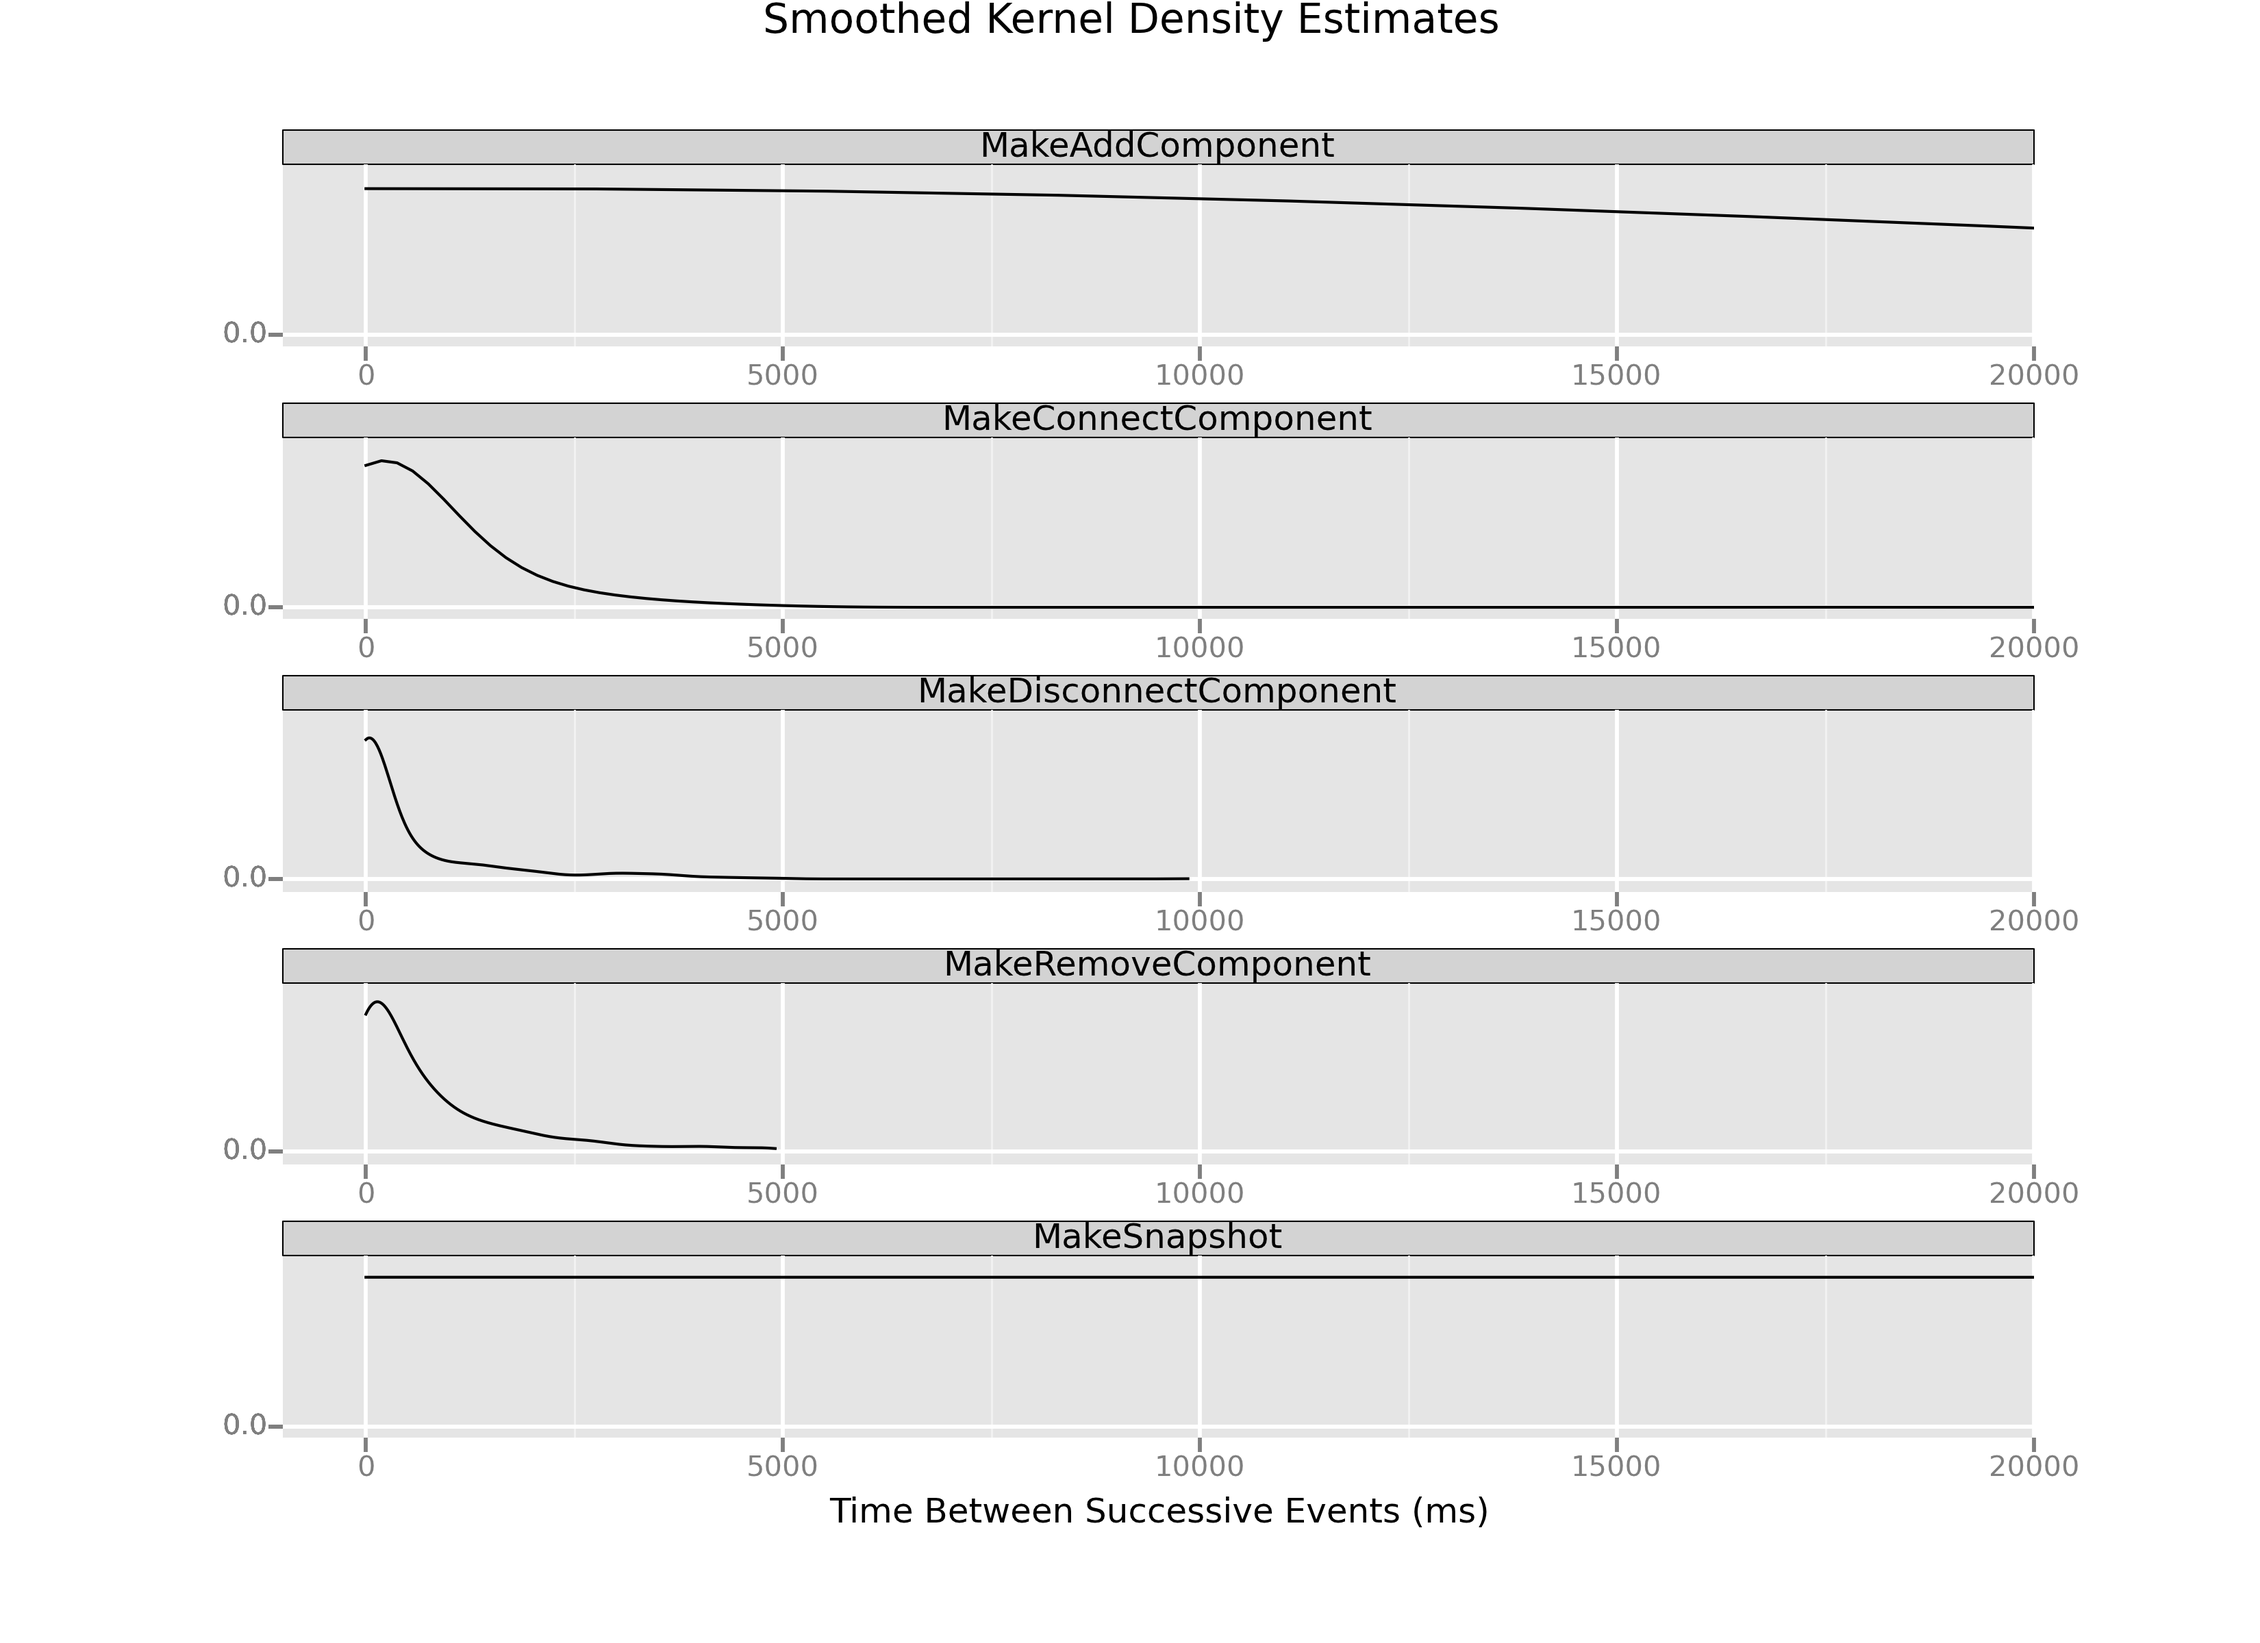
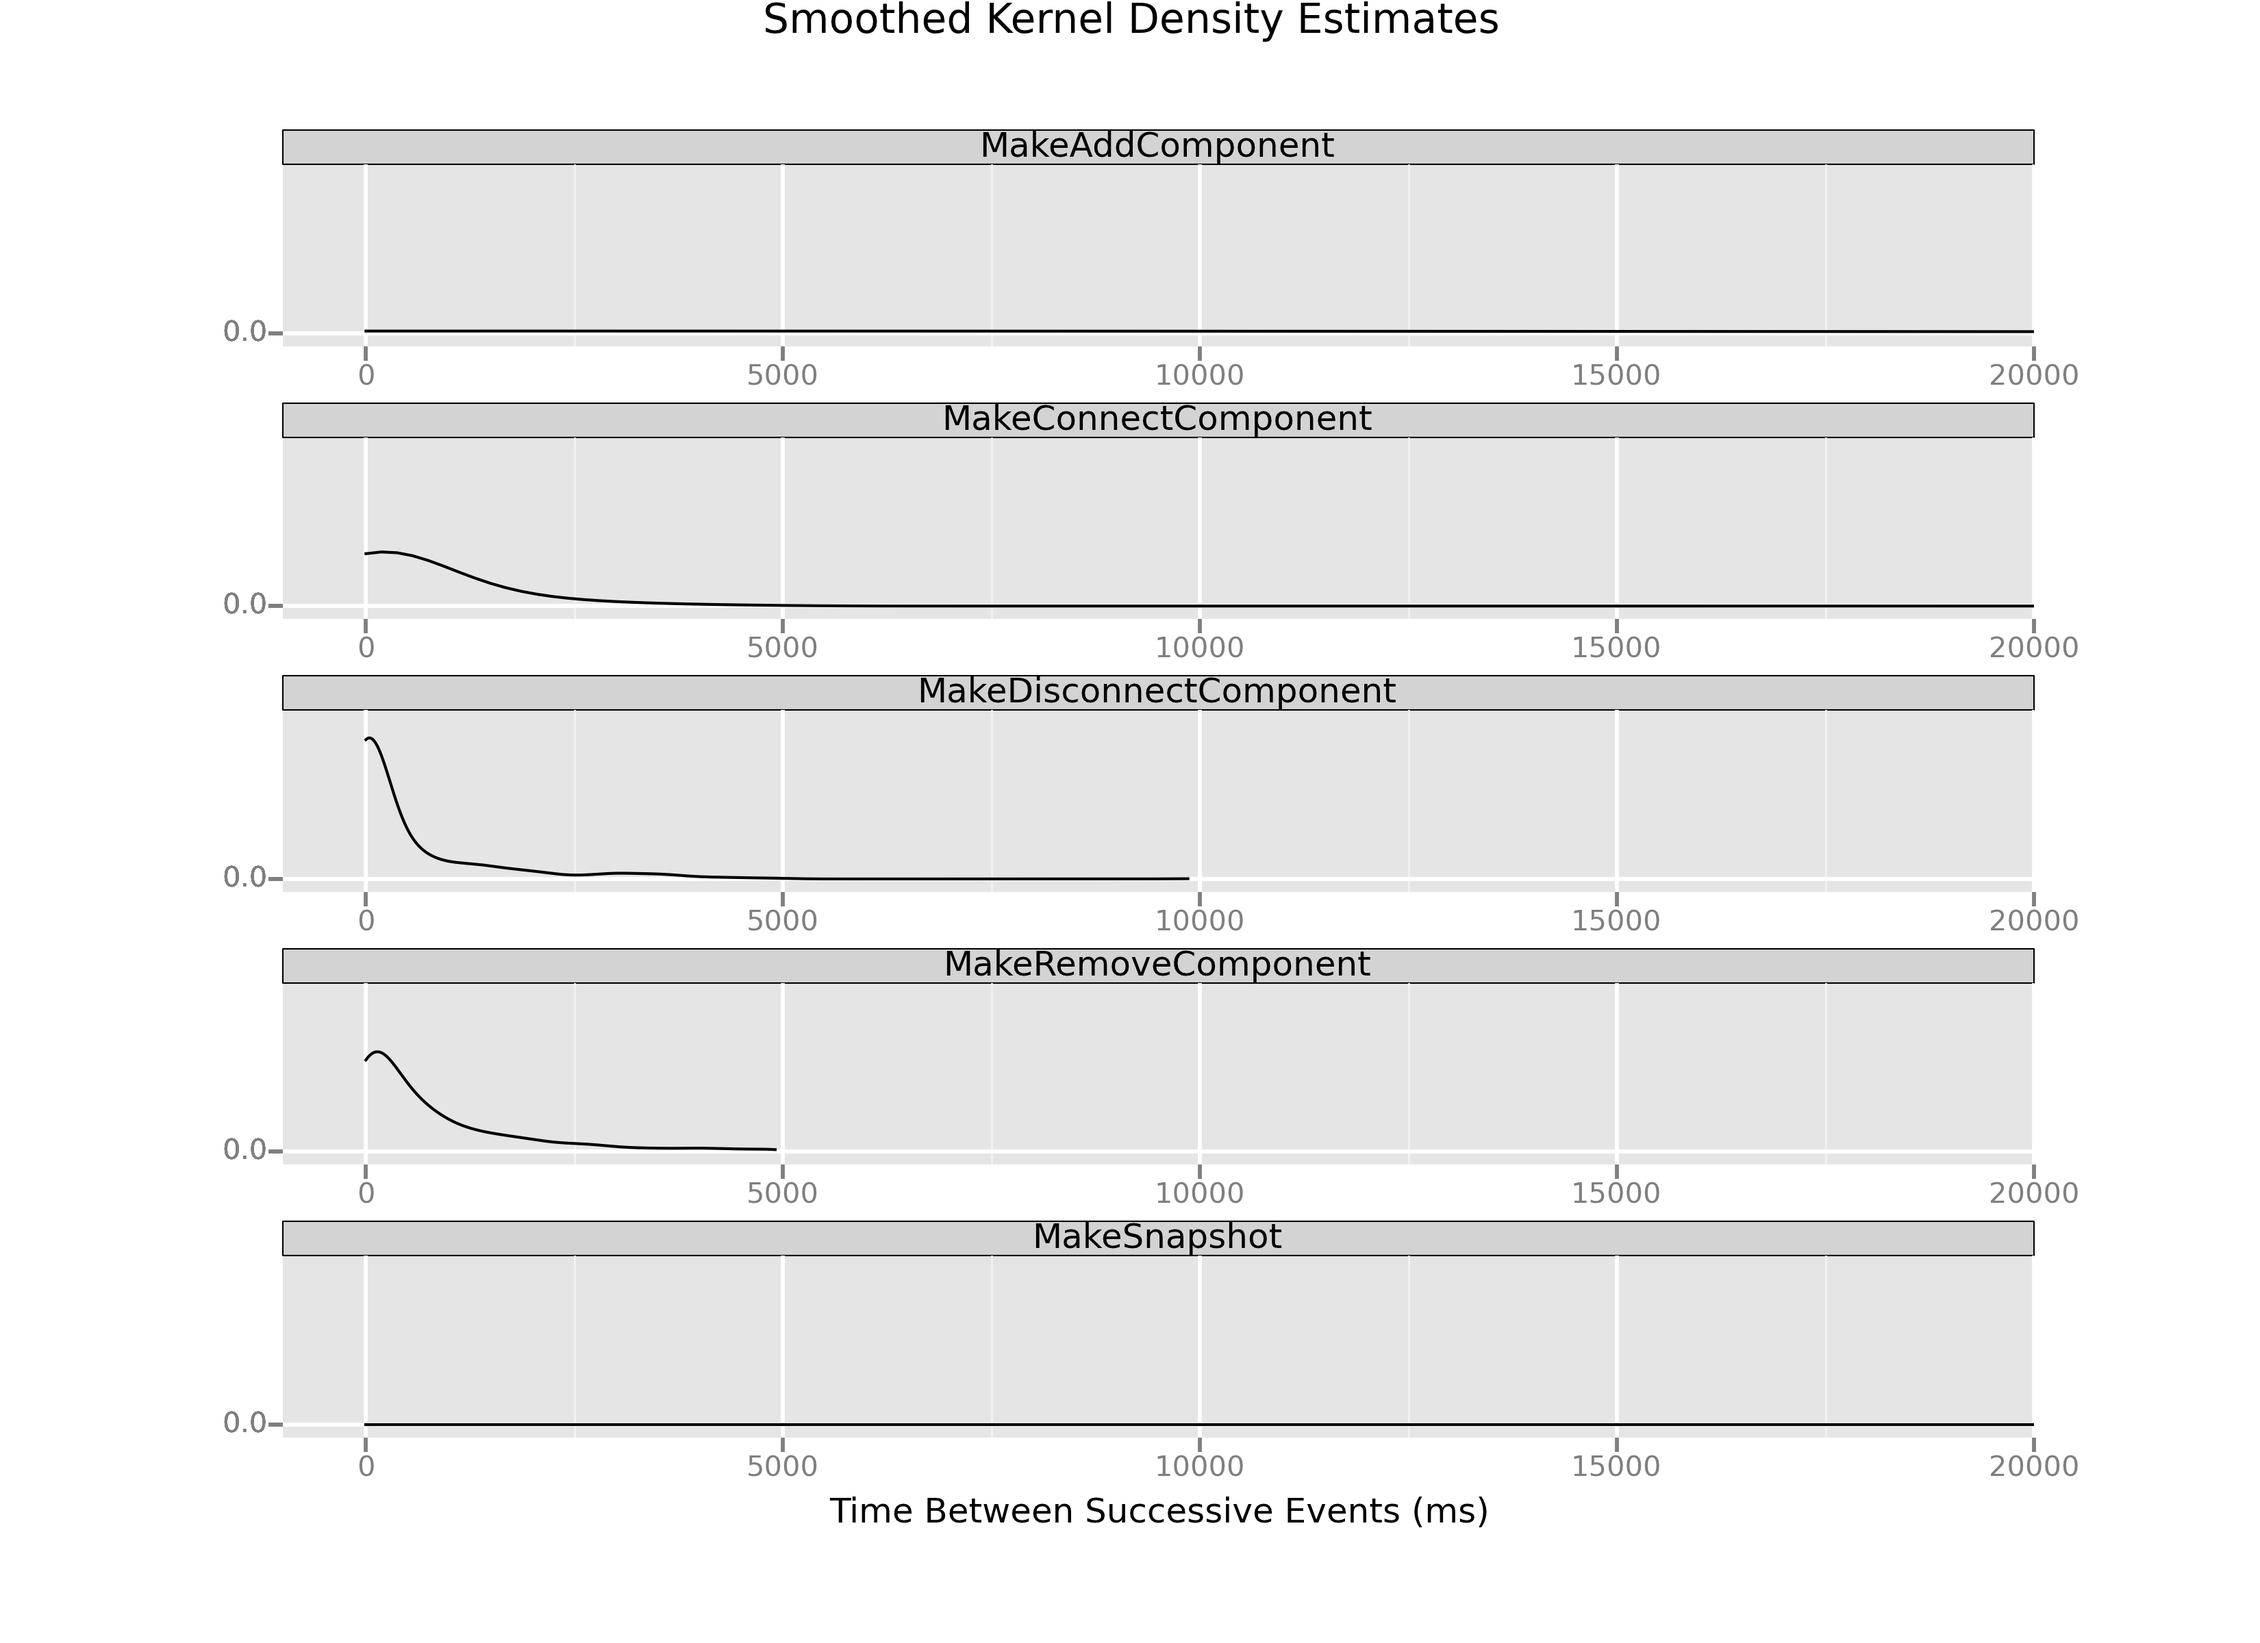
Add plots and finish visualizing time deltas

diff --git a/data_analysis/visualizing_time_deltas.md b/data_analysis/visualizing_time_deltas.md
@@ -1,10 +1,10 @@
 # Visualizing Time Deltas
 
-So, we know the *distribution* of `MakeConnectComponent` events is uneven. We know that because in the last section we plotted the cumulative distribution function and saw it had a widely variable slope. What I'd like to do now is get an idea of just what that distribution of elapsed event times looks like.
+So, we know the *distribution* of `MakeConnectComponent` events is uneven. We know that because in the [last section](working_with_time_deltas.html) we plotted the cumulative distribution function and saw it had a widely variable slope. What I'd like to do now is get an idea of just what that distribution of elapsed event times looks like.
 
-To do that, we're going to use a visualization called a [kernel density estimate](http://en.wikipedia.org/wiki/Kernel_density_estimate). Essentially, what we're doing is creating a smoothed empirical approximation of what the distributions of events look like. 
+To do that, we're going to use a visualization called a [kernel density estimate](http://en.wikipedia.org/wiki/Kernel_density_estimate). Essentially, what we're doing is creating a smoothed empirical approximation of what the distributions of events look like.
 
-We're also going to use another powerful feature of graphical analysis: what statistician [Bill Cleveland][http://cm.bell-labs.com/cm/ms/departments/sia/wsc/] and [Edward Tufte](http://www.amazon.com/The-Visual-Display-Quantitative-Information/dp/0961392142/ref=sr_1_1?ie=UTF8&qid=1401770677&sr=8-1&keywords=visual+display+of+quantitative+information) call "[small multiples](http://www.juiceanalytics.com/writing/better-know-visualization-small-multiples)." We're actually going to take a look at the distributions of time deltas for the top 5 most frequent kinds of events and graphically compare them. 
+We're also going to use another powerful feature of graphical analysis: what statistician [Bill Cleveland][http://cm.bell-labs.com/cm/ms/departments/sia/wsc/] and [Edward Tufte](http://www.amazon.com/The-Visual-Display-Quantitative-Information/dp/0961392142/ref=sr_1_1?ie=UTF8&qid=1401770677&sr=8-1&keywords=visual+display+of+quantitative+information) call "[small multiples](http://www.juiceanalytics.com/writing/better-know-visualization-small-multiples)." We're actually going to take a look at the distributions of time deltas for the top 5 most frequent kinds of events and graphically compare them. And, we'll plot them all on the same scales using a ggplot feature called `facet_wrap()`.
 
 ```python
 topFive = loadDataSortedByTimestamp(filepath)
@@ -14,20 +14,63 @@ topFive['delta1'] = topFive.timestamp.diff()
 topFive = topFive[frequencyFilter]
 
 
-p = ggplot(aes(x = 'delta1', 
-               group='key'), 
+p = ggplot(aes(x = 'delta1',
+               group='key'),
            data=topFive)
 p = p + geom_density() # a Kernel Density Estimate
 p = p + scale_x_continuous(limits=[-1000, 20000])
-p = p + facet_wrap(y='key', 
-                   ncol=1, 
-                   scales='free_y')
+p = p + facet_wrap(y='key',
+                   ncol=1,
+                   scales='fixed')
 p = p + xlab('Time Between Successive Events (ms)')
 p = p + ggtitle('Smoothed Kernel Density Estimates')
 
 print(p)
 ggsave(plot=p,
-       filename='kernelDensityEstimate.png')
+       filename='kernelDensityEstimate1.png')
 ```
 
 ![Small multiples of kernel density estimates](../assets/kernelDensityEstimate.png)
+
+Two features stand out when we look at this set of small multiples. First, there is a huge variation in the shapes of the distributions themselves. `MakeSnapshot` and `MakeAddComponent` are almost completely flat. The other distributions, meanwhile, have most of their bulk concentrated in short time intervals. 
+
+Second, if we look closely, it might be the case most of the `MakeConnectComponent` events occur within a short duration of one another, because that distribution has much of its meat in about the 1000ms (or 1s) delta range. Now, it's hard to tell because of the scale—`MakeDisconnectComponent` looks much sharper and seems to hug closer to 0 on the x-axis—but remember there are many, many more `MakeComponentEvents`.
+
+So, just what does the breakdown of those connection events look like? Let's create a histogram to find out. What I'll do is define bins of time according to which we can group events, and we'll see what an approximation of these distributions looks like when we plot them all on the same graph.
+
+```python
+binBreaks = [0, 50, 100, 200, 300, 400, 500, 600, 700, 800, 900, 1000]
+connections = loa
+
+p = ggplot(aes(x='delta1',
+               fill='key'),
+           data=topFive) + \
+        geom_histogram(breaks=binBreaks) + \
+        scale_x_continuous(breaks=binBreaks) + \
+        ggtitle('Distribution of Time Deltas Between Successive Events') + \
+        ylab('Number of Events') + \
+        xlab('Time Between Events (ms)')
+print(p)
+ggsave(plot=p, 
+       filename='histogram2.png')
+```
+
+![histogram of time delta distributions](../assets/histogram2.png)
+
+This plot is our smoking gun, and I'll explain why. Remember, what we've done is 
+
+- Take only the `MakeConnectComponent` events;  
+- Use `diff()` to compute the *time deltas* (`diff1`), the amount of time that passes between one `MakeComponentConnect` event and the next; 
+- Arrange those time deltas in bins according to how large thed deltas are. 
+ 
+Every time a time delta goes in a bin, the stack for that bin gets a little bit higher. The highest stack in this plot, by an obscene margin, is the stack of deltas that represent 50ms or fewer passing between successive `MakeConnectComponent` events.
+
+Let's put that another way. This histogram's x axis goes from 0ms to 1000ms in time deltas, which means it plots about 1744 of the total 2609 `MakeConnectComponent` events:
+
+```python
+len(connections[connections.delta1 <= 1000]) # 1744 events
+```
+
+Of those `MakeConnectComponent` events, *more than 1,000* happened within 50ms of one another. 50ms represents a frequency of 20 times per second (20Hz), or 1200 times per minute. If human children were banging blocks together at a frequency of about 20Hz, we would have noticed. Further still, the events plotted here represent about 67% of the total connection events. So, that means more than 2/3 of the connection events we recorded happened within 1 second or less of one another, with more than 50% of *those* events happening at what's essentially an inhuman frequency of 20Hz.
+
+It's clear that whatever's happening in our data, most of the connection events we're recording *aren't* deliberate connections made by the players. It seems almost certainly the case that something is causing our system to record false connections events, and lots of them. What remains is to figure out what that something is.
